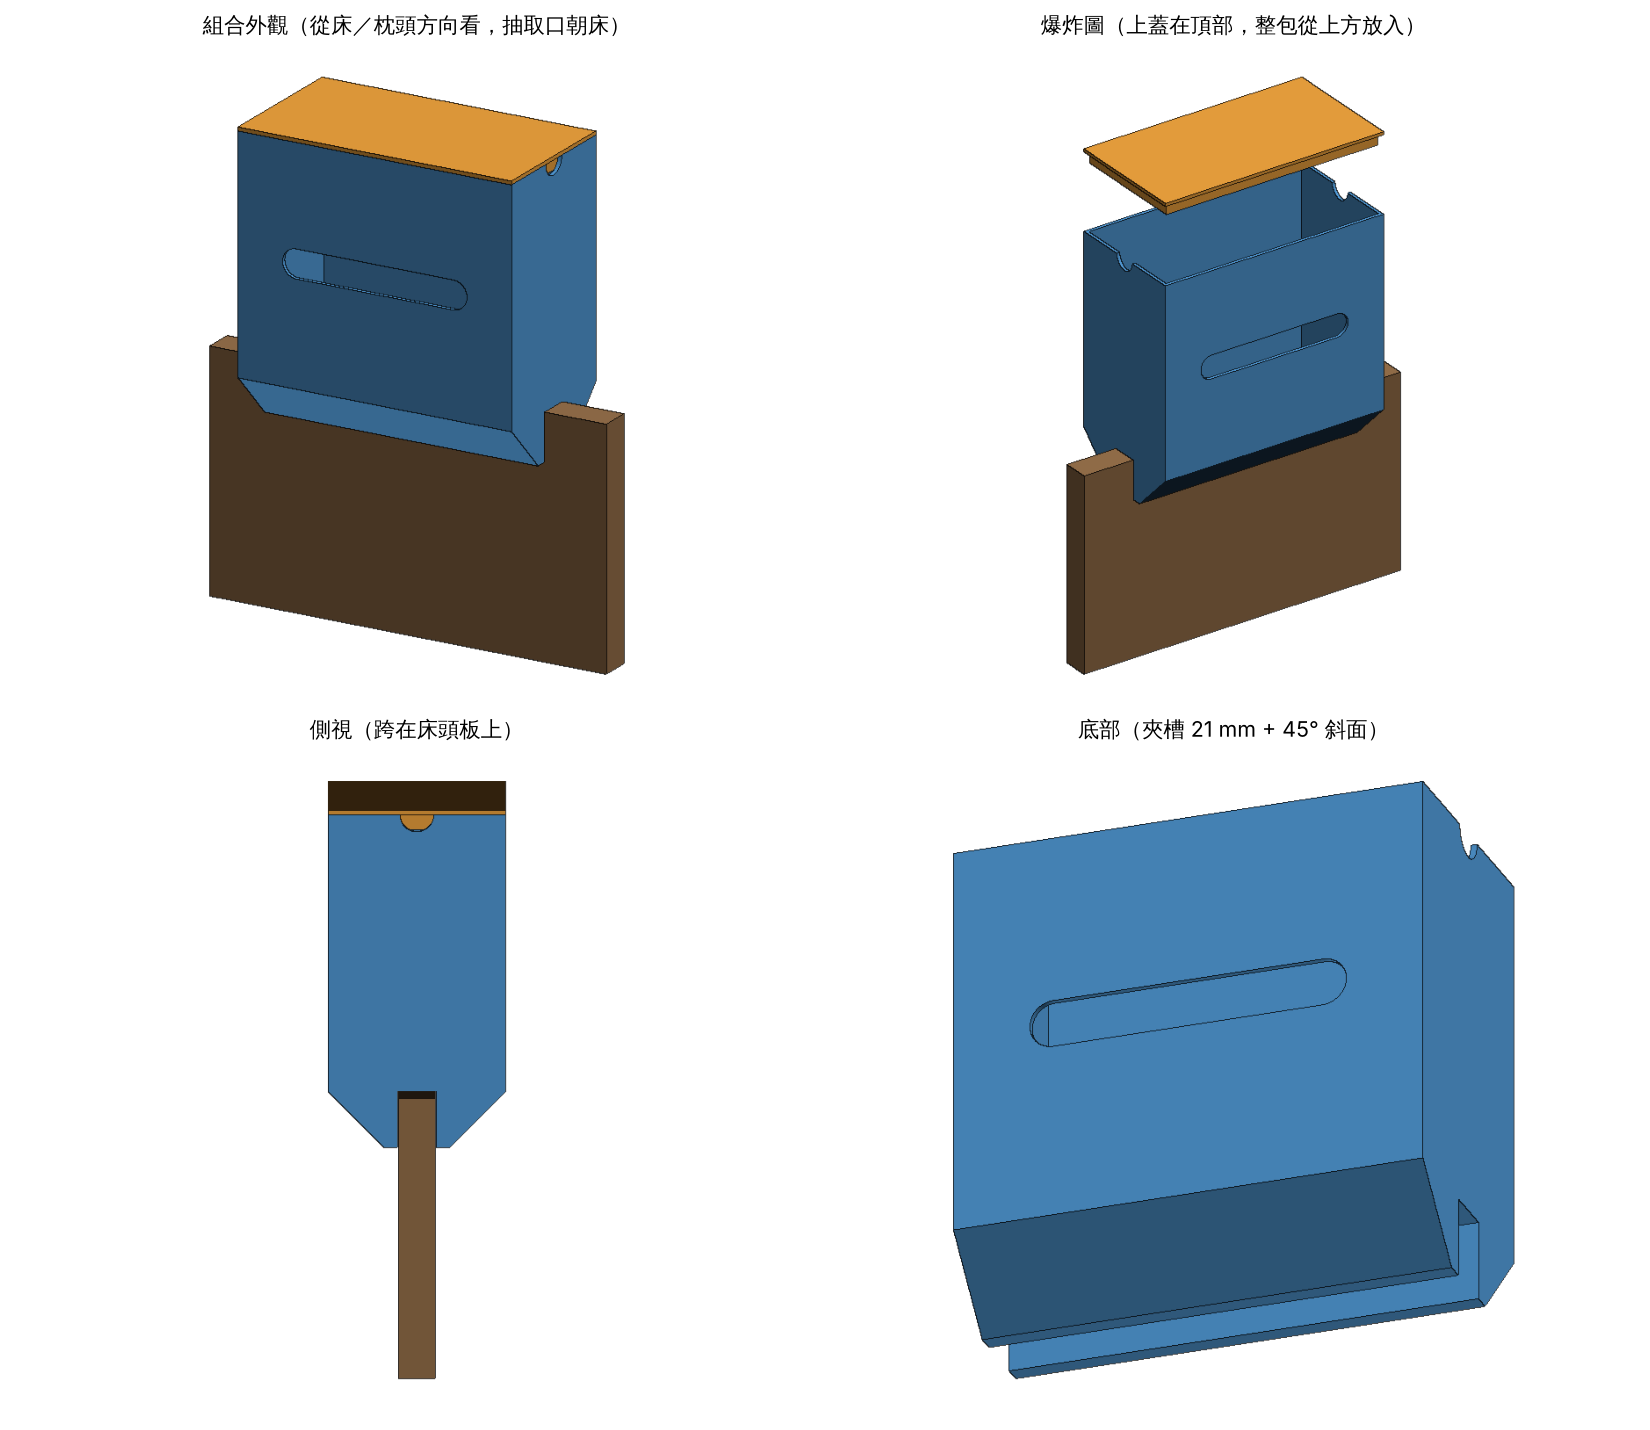
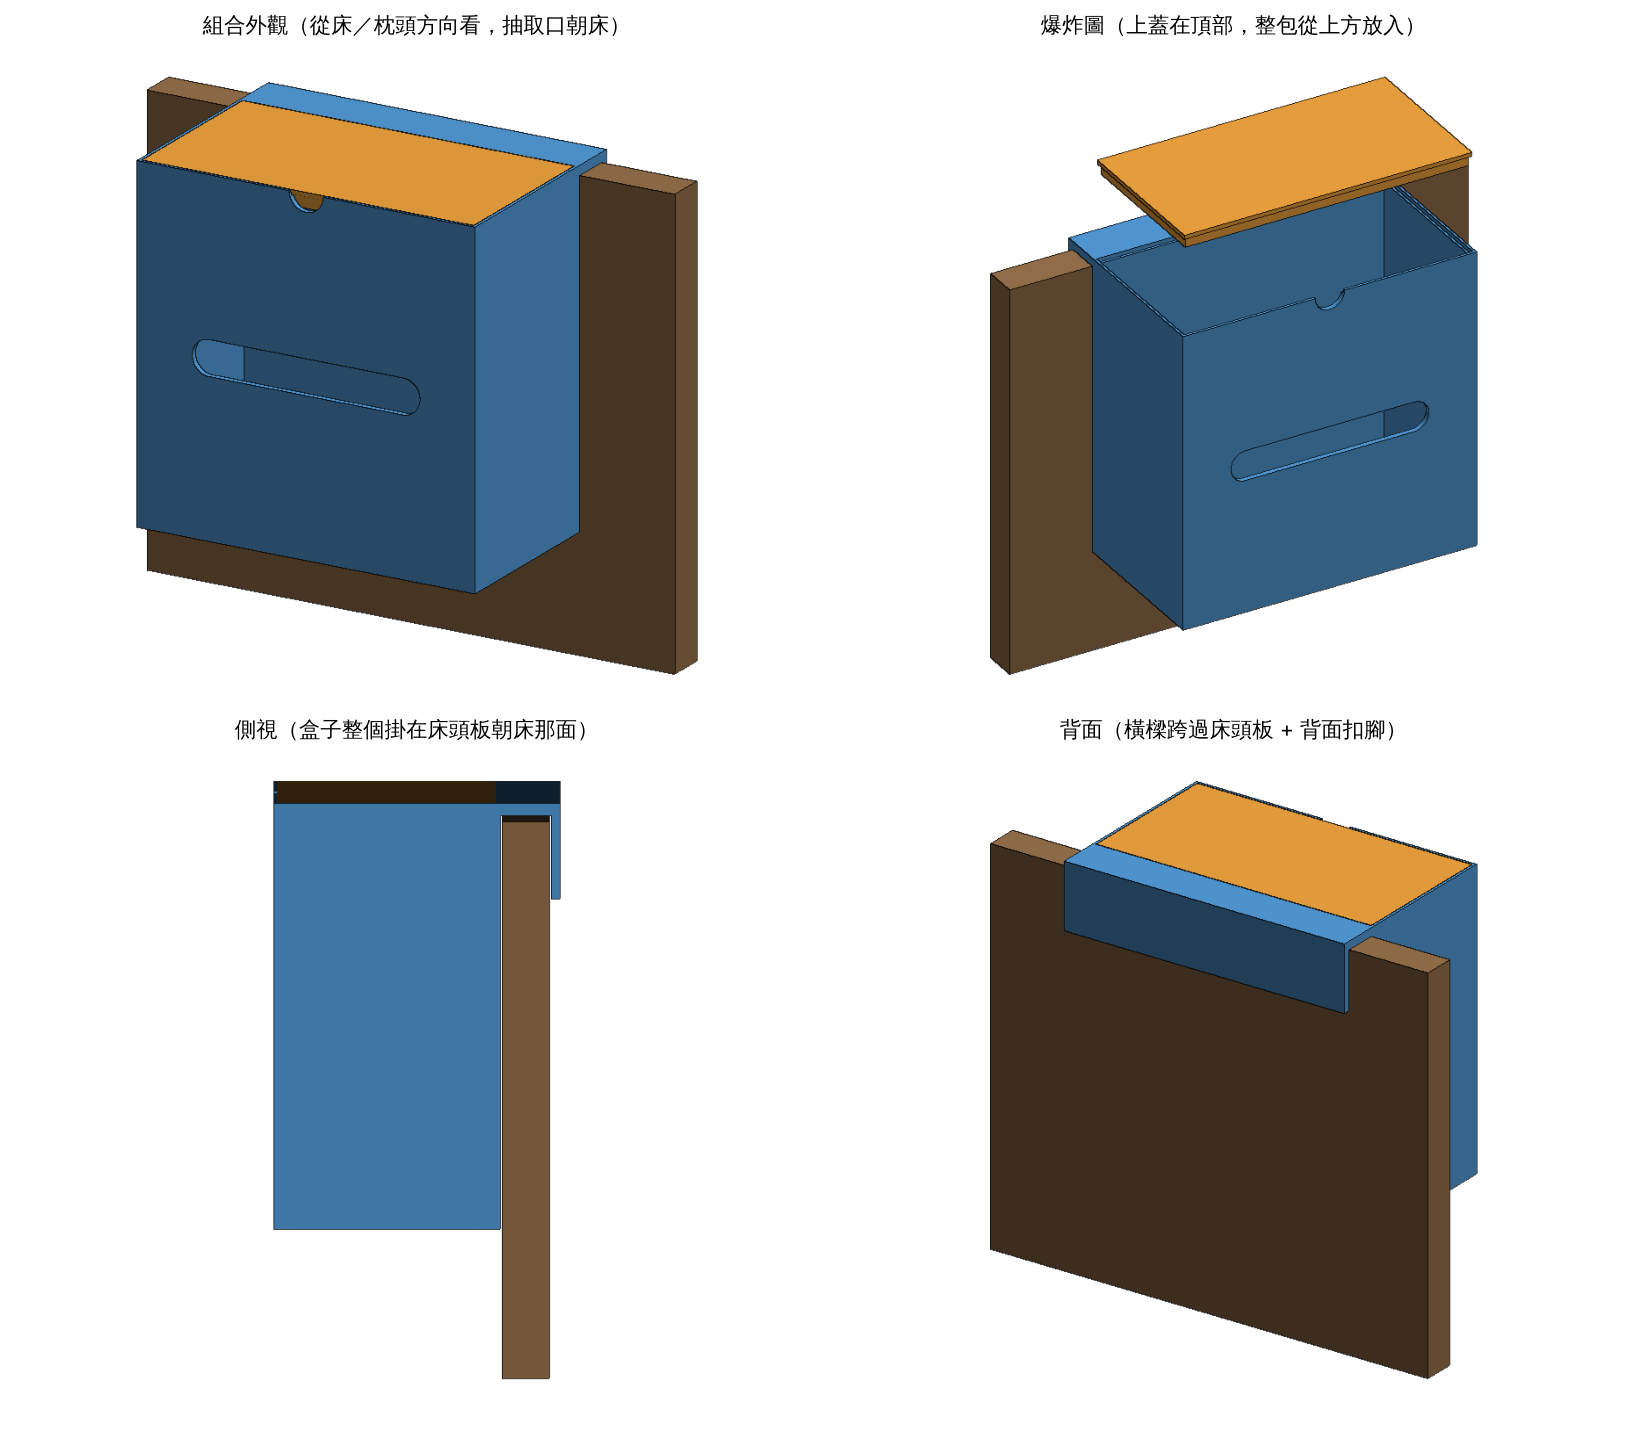
Rework tissue box to hang below headboard top with 5 mm top bridge
The whole tissue cavity now sits on the bed side of the headboard, below its
top edge. Only a 5 mm bridge crosses over the headboard, with a 40 mm back
clip leg on the wall side. Lid is recessed flush with the top.

Claude-Session: https://claude.ai/code/session_012FbViPA8fkn2R78cNFpsQg

diff --git a/tissue_box/render.py b/tissue_box/render.py
@@ -5,21 +5,12 @@ import matplotlib
 matplotlib.use("Agg")
 import matplotlib.pyplot as plt
 from matplotlib.patches import Polygon, Rectangle, FancyArrowPatch
-from mpl_toolkits.mplot3d.art3d import Poly3DCollection
 import trimesh
 import tissue_box as tb
+from raster import render
 
-plt.rcParams["font.sans-serif"] = ["Noto Sans CJK TC", "Noto Sans CJK JP", "WenQuanYi Zen Hei", "DejaVu Sans"]
+plt.rcParams["font.sans-serif"] = ["WenQuanYi Zen Hei", "DejaVu Sans"]
 plt.rcParams["axes.unicode_minus"] = False
-LIGHT = np.array([0.4, -0.7, 0.6]); LIGHT /= np.linalg.norm(LIGHT)
-
-
-def add_mesh(ax, mesh, color, alpha=1.0, offset=(0, 0, 0)):
-    tris = mesh.vertices[mesh.faces] + np.array(offset)
-    shade = 0.45 + 0.55 * np.clip(mesh.face_normals @ LIGHT, 0, 1)
-    cols = np.clip(np.array(color)[None, :] * shade[:, None], 0, 1)
-    cols = np.hstack([cols, np.full((len(cols), 1), alpha)])
-    ax.add_collection3d(Poly3DCollection(tris, facecolors=cols, edgecolors="none"))
 
 
 def box_mesh(x0, y0, z0, x1, y1, z1):
@@ -28,32 +19,22 @@ def box_mesh(x0, y0, z0, x1, y1, z1):
     return m
 
 
-def setup(ax, lim, elev, azim, title):
-    ax.set_xlim(lim[0]); ax.set_ylim(lim[1]); ax.set_zlim(lim[2])
-    ax.set_box_aspect([l[1] - l[0] for l in lim])
-    ax.view_init(elev=elev, azim=azim)
-    ax.set_axis_off(); ax.set_title(title, fontsize=13)
-
-
 body = tb.to_trimesh(tb.body())
 lid = tb.to_trimesh(tb.lid())
-lid_inst = lid.copy()
-lid_inst.apply_transform(trimesh.transformations.rotation_matrix(np.pi, [1, 0, 0], [0, tb.D / 2, 0]))
-lid_inst.apply_translation([0, 0, tb.H + tb.LID_T])  # 外表面朝上, 唇嵌入盒內
-gap = tb.BOARD_T + tb.BOARD_CLR
-g0 = (tb.D - gap) / 2 + tb.BOARD_CLR / 2
-board = box_mesh(-40, g0, -120, tb.W + 40, g0 + tb.BOARD_T, tb.LEG_H)
+lid_inst = tb.lid_installed()
+zt = tb.H - tb.TOP_T                       # 床頭板頂端
+by0 = tb.DB + tb.BOARD_CLR / 2             # 床頭板朝床面
+board = box_mesh(-50, by0, -60, tb.W + 50, by0 + tb.BOARD_T, zt)
 BOX_C = np.array([0.33, 0.62, 0.86]); LID_C = np.array([0.95, 0.65, 0.25]); BOARD_C = np.array([0.6, 0.45, 0.3])
 OUT = tb.OUT
 
-# 1. 組合外觀 (從床的方向看) + 爆炸圖
-from raster import render
+# 1. 3D 預覽
 lid_up = lid_inst.copy(); lid_up.apply_translation([0, 0, 60])
 views = [
     ([(body, BOX_C, 1), (lid_inst, LID_C, 1), (board, BOARD_C, 1)], 20, -60, "組合外觀（從床／枕頭方向看，抽取口朝床）"),
-    ([(body, BOX_C, 1), (lid_up, LID_C, 1), (board, BOARD_C, 1)], 28, -125, "爆炸圖（上蓋在頂部，整包從上方放入）"),
-    ([(body, BOX_C, 1), (lid_inst, LID_C, 1), (board, BOARD_C, 1)], 5, 0, "側視（跨在床頭板上）"),
-    ([(body, BOX_C, 1)], -25, -70, "底部（夾槽 21 mm + 45° 斜面）"),
+    ([(body, BOX_C, 1), (lid_up, LID_C, 1), (board, BOARD_C, 1)], 30, -120, "爆炸圖（上蓋在頂部，整包從上方放入）"),
+    ([(body, BOX_C, 1), (lid_inst, LID_C, 1), (board, BOARD_C, 1)], 3, 0, "側視（盒子整個掛在床頭板朝床那面）"),
+    ([(body, BOX_C, 1), (lid_inst, LID_C, 1), (board, BOARD_C, 1)], 25, 125, "背面（橫樑跨過床頭板 + 背面扣腳）"),
 ]
 fig, axs = plt.subplots(2, 2, figsize=(15, 13))
 for ax, (items, el, az, t) in zip(axs.flat, views):
@@ -61,42 +42,43 @@ for ax, (items, el, az, t) in zip(axs.flat, views):
 fig.tight_layout(); fig.savefig(os.path.join(OUT, "preview_3d.png"), dpi=110); plt.close(fig)
 
 # 2. 側面剖面示意 (YZ)
-fig, ax = plt.subplots(figsize=(9, 10))
-s = tb.LEG_H; g1 = (tb.D + gap) / 2; gg0 = (tb.D - gap) / 2
-prof = [(0, tb.LEG_H), (s, 0), (gg0, 0), (gg0, tb.LEG_H), (g1, tb.LEG_H), (g1, 0), (tb.D - s, 0), (tb.D, tb.LEG_H), (tb.D, tb.H), (0, tb.H)]
-ax.add_patch(Polygon(prof, closed=True, fc=BOX_C, ec="k", alpha=0.35))
-z0 = tb.LEG_H + tb.FLOOR
-ax.add_patch(Rectangle((tb.WALL, z0), tb.D - 2 * tb.WALL, tb.H - z0, fc="white", ec="k"))
-ax.add_patch(Rectangle((gg0 + tb.BOARD_CLR / 2, -110), tb.BOARD_T, 110 + tb.LEG_H, fc=BOARD_C, ec="k", alpha=0.8))
-ax.text(tb.D / 2, -60, f"床頭板\n{tb.BOARD_T:.0f} mm", ha="center", va="center", color="white", fontsize=11, rotation=90)
-pk = Rectangle((tb.WALL + 1, z0 + 5), 60, tb.H - z0 - 10, fc="#f4f1e8", ec="#999", hatch="||")
-ax.add_patch(pk); ax.text(tb.WALL + 31, (z0 + tb.H) / 2, "衛生紙\n(直立)", ha="center", va="center", fontsize=11)
-zc = (z0 + tb.H) / 2
+fig, ax = plt.subplots(figsize=(10, 10))
+y1 = tb.DB + tb.GAP
+prof = [(0, 0), (tb.DB, 0), (tb.DB, zt), (y1, zt), (y1, tb.H - tb.BACK_LEG),
+        (tb.D_TOTAL, tb.H - tb.BACK_LEG), (tb.D_TOTAL, tb.H), (0, tb.H)]
+ax.add_patch(Polygon(prof, closed=True, fc=BOX_C, ec="k", alpha=0.45))
+z_top_cav = tb.H - tb.LID_T
+ax.add_patch(Rectangle((tb.WALL, tb.FLOOR), tb.DB - 2 * tb.WALL, z_top_cav - tb.FLOOR, fc="white", ec="k"))
+ax.add_patch(Rectangle((tb.WALL - tb.LEDGE, z_top_cav), tb.DB - 2 * (tb.WALL - tb.LEDGE), tb.LID_T, fc=LID_C, ec="k"))
+ax.add_patch(Rectangle((by0, -70), tb.BOARD_T, zt + 70, fc=BOARD_C, ec="k", alpha=0.85))
+ax.text(by0 + tb.BOARD_T / 2, 60, f"床頭板 {tb.BOARD_T:.0f} mm", ha="center", va="center", color="white", fontsize=11, rotation=90)
+ax.add_patch(Rectangle((tb.WALL + 1, tb.FLOOR + 3), 60, z_top_cav - tb.FLOOR - 8, fc="#f4f1e8", ec="#999", hatch="||"))
+ax.text(tb.WALL + 31, 120, "衛生紙\n(直立)", ha="center", va="center", fontsize=11)
+zc = tb.SLOT_Z if tb.SLOT_Z is not None else (tb.FLOOR + z_top_cav) / 2
 ax.add_patch(Rectangle((-0.5, zc - tb.SLOT_W / 2), tb.WALL + 1, tb.SLOT_W, fc="red", ec="red"))
 ax.add_patch(FancyArrowPatch((5, zc), (-70, zc), arrowstyle="-|>", mutation_scale=25, color="red", lw=2.5))
-ax.text(-40, zc + 12, "抽取方向\n(朝床, 與床頭板垂直)", ha="center", color="red", fontsize=11)
-ax.add_patch(Rectangle((0, tb.H), tb.D, tb.LID_T, fc=LID_C, ec="k"))
-ax.add_patch(FancyArrowPatch((tb.D / 2, tb.H + 45), (tb.D / 2, tb.H + 8), arrowstyle="-|>", mutation_scale=20, color=LID_C, lw=2))
-ax.text(tb.D / 2, tb.H + 50, "上蓋在頂部, 從上方放入整包", ha="center", fontsize=11)
-ax.text(-75, -40, "← 床 / 枕頭側", fontsize=12); ax.text(tb.D + 5, -40, "牆側 →", fontsize=12)
-for (a, b, z, t) in [(0, tb.D, -8 - 0, f"深 {tb.D:.0f}")]:
-    pass
-ax.annotate("", (tb.D + 12, 0), (tb.D + 12, tb.H), arrowprops=dict(arrowstyle="<->"))
-ax.text(tb.D + 15, tb.H / 2, f"高 {tb.H:.0f} mm", rotation=90, va="center")
-ax.annotate("", (0, tb.H + 20), (tb.D, tb.H + 20), arrowprops=dict(arrowstyle="<->"))
-ax.text(tb.D / 2, tb.H + 23, f"深 {tb.D:.0f} mm", ha="center")
-ax.annotate("", (gg0, tb.LEG_H + 6), (g1, tb.LEG_H + 6), arrowprops=dict(arrowstyle="<->"))
-ax.text(tb.D / 2, tb.LEG_H + 9, f"夾槽 {gap:.0f}", ha="center", fontsize=9)
-ax.set_xlim(-110, 150); ax.set_ylim(-115, 245); ax.set_aspect("equal"); ax.axis("off")
+ax.text(-45, zc + 12, "抽取方向\n(朝床, 與床頭板垂直)", ha="center", color="red", fontsize=11)
+ax.axhline(zt, color="gray", ls=":", lw=1)
+ax.text(tb.D_TOTAL + 8, zt - 3, "床頭板頂端", va="top", fontsize=10, color="gray")
+ax.annotate("", (tb.D_TOTAL + 5, zt), (tb.D_TOTAL + 5, tb.H), arrowprops=dict(arrowstyle="<->", color="purple"))
+ax.text(tb.D_TOTAL + 8, tb.H + 2, f"只高出 {tb.TOP_T:.0f} mm", color="purple", fontsize=11)
+ax.annotate("", (-15, 0), (-15, zt), arrowprops=dict(arrowstyle="<->"))
+ax.text(-18, zt / 2 - 30, f"收納空間全在床頭板頂端以下\n盒高 {tb.H:.0f}（低於頂端 {zt:.0f}）", rotation=90, va="center", ha="right", fontsize=10)
+ax.annotate("", (0, tb.H + 25), (tb.D_TOTAL, tb.H + 25), arrowprops=dict(arrowstyle="<->"))
+ax.text(tb.D_TOTAL / 2, tb.H + 28, f"總深 {tb.D_TOTAL:.0f} mm（盒 {tb.DB:.0f} + 夾槽 {tb.GAP:.0f} + 扣腳 {tb.BACK_T:.0f}）", ha="center")
+ax.add_patch(FancyArrowPatch((tb.DB / 2, tb.H + 60), (tb.DB / 2, tb.H + 6), arrowstyle="-|>", mutation_scale=20, color=LID_C, lw=2))
+ax.text(tb.DB / 2, tb.H + 63, "上蓋在頂部（與頂面齊平）", ha="center", fontsize=11)
+ax.text(-105, -60, "← 床 / 枕頭側", fontsize=12); ax.text(tb.D_TOTAL + 5, -60, "牆側 →", fontsize=12)
+ax.set_xlim(-110, 200); ax.set_ylim(-75, 260); ax.set_aspect("equal"); ax.axis("off")
 ax.set_title("側面剖面示意（寬 178 mm 沿床頭板方向）", fontsize=13)
 fig.tight_layout(); fig.savefig(os.path.join(OUT, "preview_section.png"), dpi=130); plt.close(fig)
 
 # 3. 列印擺放 (A1 mini 180x180x180)
 bed = box_mesh(0, 0, -2, 180, 180, 0)
-b_p = body.copy(); b_p.apply_translation([1, (180 - tb.D) / 2, 0])
-l_p = lid.copy(); l_p.apply_translation([1, (180 - tb.D) / 2, 0])
+b_p = body.copy(); b_p.apply_translation([1, (180 - tb.D_TOTAL) / 2, 0])
+l_p = lid.copy(); l_p.apply_translation([(180 - l_p.extents[0]) / 2, (180 - l_p.extents[1]) / 2, 0])
 fig, axs = plt.subplots(1, 2, figsize=(15, 7.5))
-for ax, (m, c, t) in zip(axs, [(b_p, BOX_C, "主體：開口朝上直立列印（45° 斜面免支撐）"), (l_p, LID_C, "上蓋：外表面貼床、內嵌唇朝上")]):
+for ax, (m, c, t) in zip(axs, [(b_p, BOX_C, "主體：開口朝上直立列印（背面扣腳下方需支撐）"), (l_p, LID_C, "上蓋：外表面貼床、內嵌唇朝上")]):
     ax.imshow(render([(m, c, 1), (bed, np.array([0.55, 0.55, 0.55]), 1)], 25, -55, size=(900, 800))); ax.axis("off"); ax.set_title(t, fontsize=14)
 fig.suptitle("Bambu Lab A1 mini 列印平台 180 × 180 mm（灰色）／高度上限 180 mm", fontsize=15)
 fig.tight_layout(rect=[0, 0, 1, 0.95]); fig.savefig(os.path.join(OUT, "preview_print_layout.png"), dpi=110); plt.close(fig)

diff --git a/tissue_box/tissue_box.py b/tissue_box/tissue_box.py
@@ -1,7 +1,9 @@
-"""床頭板衛生紙抽取盒 v1 — 參數化模型 (Bambu Lab A1 mini, 180x180x180 mm)
+"""床頭板衛生紙抽取盒 v2 — 參數化模型 (Bambu Lab A1 mini, 180x180x180 mm)
 
-座標: X = 沿床頭板寬度方向, Y = 深度 (Y=0 朝床/朝人, Y=D 朝牆), Z = 高度
-衛生紙直立放置, 抽取口在朝床的垂直面上, 抽取方向與床頭板垂直; 上蓋在頂部.
+座標: X = 沿床頭板寬度方向, Y = 深度 (Y=0 朝床/朝人, 往 +Y 是床頭板與牆), Z = 高度
+盒子整個掛在床頭板朝床的那一面, 收納空間全部低於床頭板頂端;
+只有頂部 TOP_T 厚的橫樑跨過床頭板頂端, 背面再用扣腳往下扣住床頭板.
+衛生紙直立放置, 抽取口在朝床的垂直面上, 抽取方向與床頭板垂直; 上蓋在頂部且與頂面齊平.
 """
 import os
 import numpy as np
@@ -10,28 +12,33 @@ from manifold3d import Manifold, CrossSection
 
 # ---------- 參數 (mm) ----------
 W = 178.0           # 外寬 (沿床頭板)
-H = 178.0           # 外高 (含跨板腳)
-D = 95.0            # 外深 (垂直床頭板)
-WALL = 2.4          # 壁厚
+H = 178.0           # 外高
+DB = 95.0           # 盒子外深 (不含跨板部分)
+WALL = 3.0          # 壁厚
 FLOOR = 2.4         # 底厚
 BOARD_T = 20.0      # 床頭板厚度 (之後可調)
 BOARD_CLR = 1.0     # 床頭板夾槽餘隙
-LEG_H = 30.0        # 跨板腳高度 (往下包住床頭板的深度)
+TOP_T = 5.0         # 跨在床頭板頂端的橫樑厚度 (= 高出床頭板的高度)
+BACK_LEG = 40.0     # 背面扣腳往下的長度
+BACK_T = 4.0        # 背面扣腳厚度
 SLOT_L = 120.0      # 抽取口長度
 SLOT_W = 18.0       # 抽取口寬度
-LID_T = 2.4         # 上蓋板厚
+SLOT_Z = None       # 抽取口中心高度 (None = 收納空間正中央)
+LID_T = 2.4         # 上蓋厚 (與頂面齊平)
+LEDGE = 1.5         # 上蓋承靠的內緣寬度
 LIP_T = 1.6         # 上蓋內嵌唇厚
-LIP_H = 8.0         # 上蓋內嵌唇深度
+LIP_H = 6.0         # 上蓋內嵌唇深度
 LID_CLR = 0.3       # 上蓋配合間隙
-NOTCH_R = 9.0       # 側邊掀蓋手指缺口半徑
+NOTCH_R = 9.0       # 前緣掀蓋手指缺口半徑
 
+GAP = BOARD_T + BOARD_CLR
+D_TOTAL = DB + GAP + BACK_T
 OUT = os.path.join(os.path.dirname(os.path.abspath(__file__)), "..", "output")
 
 
 def yz_extrude_x(pts, length):
-    """以 (y, z) 輪廓沿 X 擠出."""
+    """以 (y, z) 逆時針輪廓沿 X 擠出."""
     m = CrossSection([pts]).extrude(length)  # (u, v, w) = (y, z, x)
-    # 置換軸: x = w, y = u, z = v
     return m.transform([[0, 0, 1, 0], [1, 0, 0, 0], [0, 1, 0, 0]])
 
 
@@ -44,40 +51,51 @@ def stadium(length, width, depth, n=48):
 
 
 def body():
-    gap = BOARD_T + BOARD_CLR
-    g0 = (D - gap) / 2
-    g1 = g0 + gap
-    s = LEG_H  # 45 度斜面, 免支撐
+    y1 = DB + GAP            # 背面扣腳內側
+    zt = H - TOP_T           # 床頭板頂端高度
     prof = [
-        (0, LEG_H), (s, 0), (g0, 0), (g0, LEG_H), (g1, LEG_H), (g1, 0),
-        (D - s, 0), (D, LEG_H), (D, H), (0, H),
+        (0, 0), (DB, 0), (DB, zt), (y1, zt), (y1, H - BACK_LEG),
+        (D_TOTAL, H - BACK_LEG), (D_TOTAL, H), (0, H),
     ]
     outer = yz_extrude_x(prof, W)
 
-    z0 = LEG_H + FLOOR
-    cavity = Manifold.cube([W - 2 * WALL, D - 2 * WALL, H - z0 + 1]).translate([WALL, WALL, z0])
+    # 收納空間: 底板到上蓋下緣
+    cavity = Manifold.cube([W - 2 * WALL, DB - 2 * WALL, H - LID_T - FLOOR + 0.01]).translate([WALL, WALL, FLOOR])
+    # 上蓋凹槽: 比開口每邊多 LEDGE, 深 LID_T, 讓上蓋與頂面齊平
+    recess = Manifold.cube([W - 2 * (WALL - LEDGE), DB - 2 * (WALL - LEDGE), LID_T + 1]).translate(
+        [WALL - LEDGE, WALL - LEDGE, H - LID_T])
 
-    # 抽取口: 朝床的垂直面 (Y=0), 置中於收納空間
-    zc = (z0 + H) / 2
-    slot = stadium(SLOT_L, SLOT_W, WALL + 2)  # XY 平面 -> 轉到 XZ 平面
-    # 繞 X 轉 -90 度: (x, y, z) -> (x, z, -y), 擠出方向變成 +Y
-    slot = slot.rotate([-90, 0, 0]).translate([W / 2, -1, zc])
+    # 抽取口: 朝床的垂直面 (Y=0)
+    zc = SLOT_Z if SLOT_Z is not None else (FLOOR + H - LID_T) / 2
+    slot = stadium(SLOT_L, SLOT_W, WALL + 2)
+    slot = slot.rotate([-90, 0, 0]).translate([W / 2, -1, zc])  # (x,y,z)->(x,z,-y), 沿 +Y 穿過前壁
 
-    # 左右兩側頂端的手指缺口, 方便掀開上蓋
-    notch = Manifold.cylinder(W + 2, NOTCH_R, NOTCH_R, 64).rotate([0, 90, 0])
-    notch = notch.translate([-1, D / 2, H])
-    return outer - cavity - slot - notch
+    # 前緣中央手指缺口, 方便掀開上蓋
+    notch = Manifold.cylinder(WALL + 2, NOTCH_R, NOTCH_R, 64).rotate([-90, 0, 0]).translate([W / 2, -1, H])
+    return outer - cavity - recess - slot - notch
 
 
 def lid():
-    plate = Manifold.cube([W, D, LID_T])
+    pw = W - 2 * (WALL - LEDGE) - 2 * LID_CLR
+    pd = DB - 2 * (WALL - LEDGE) - 2 * LID_CLR
+    plate = Manifold.cube([pw, pd, LID_T])
     iw = W - 2 * WALL - 2 * LID_CLR
-    idp = D - 2 * WALL - 2 * LID_CLR
+    idp = DB - 2 * WALL - 2 * LID_CLR
     lip_o = Manifold.cube([iw, idp, LIP_H])
     lip_i = Manifold.cube([iw - 2 * LIP_T, idp - 2 * LIP_T, LIP_H + 1]).translate([LIP_T, LIP_T, -0.5])
-    lip = (lip_o - lip_i).translate([WALL + LID_CLR, WALL + LID_CLR, LID_T])
+    off = LEDGE
+    lip = (lip_o - lip_i).translate([off, off, LID_T])
     # 列印方向: 外表面貼床, 內嵌唇朝上, 免支撐
     return plate + lip
+
+
+def lid_installed():
+    """回傳裝在盒子上的上蓋 (外表面朝上, 與頂面齊平)."""
+    m = to_trimesh(lid())
+    pd = DB - 2 * (WALL - LEDGE) - 2 * LID_CLR
+    m.apply_transform(trimesh.transformations.rotation_matrix(np.pi, [1, 0, 0], [0, pd / 2, 0]))
+    m.apply_translation([WALL - LEDGE + LID_CLR, WALL - LEDGE + LID_CLR, H])
+    return m
 
 
 def to_trimesh(m):
@@ -89,7 +107,8 @@ if __name__ == "__main__":
     os.makedirs(OUT, exist_ok=True)
     b = to_trimesh(body())
     l = to_trimesh(lid())
-    print("body bounds", b.bounds.tolist(), "watertight", b.is_watertight, "vol cm3", b.volume / 1000)
-    print("lid  bounds", l.bounds.tolist(), "watertight", l.is_watertight, "vol cm3", l.volume / 1000)
+    print("body bounds", b.bounds.tolist(), "watertight", b.is_watertight, "vol cm3", round(b.volume / 1000, 1))
+    print("lid  bounds", l.bounds.tolist(), "watertight", l.is_watertight, "vol cm3", round(l.volume / 1000, 1))
+    print("inner cavity", W - 2 * WALL, DB - 2 * WALL, H - LID_T - FLOOR)
     b.export(os.path.join(OUT, "tissue_box_body.stl"))
     l.export(os.path.join(OUT, "tissue_box_lid.stl"))
